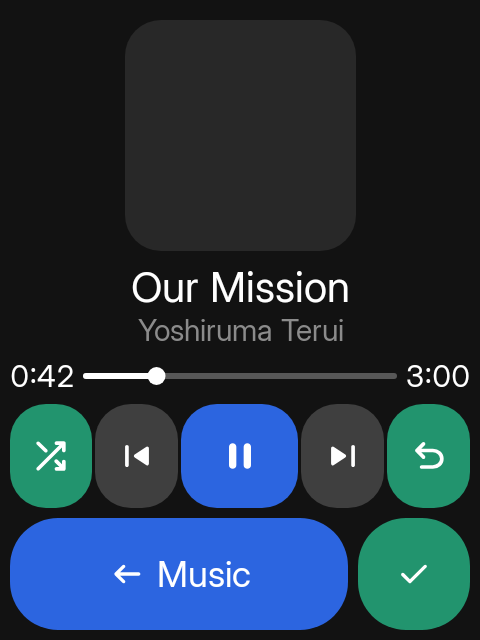
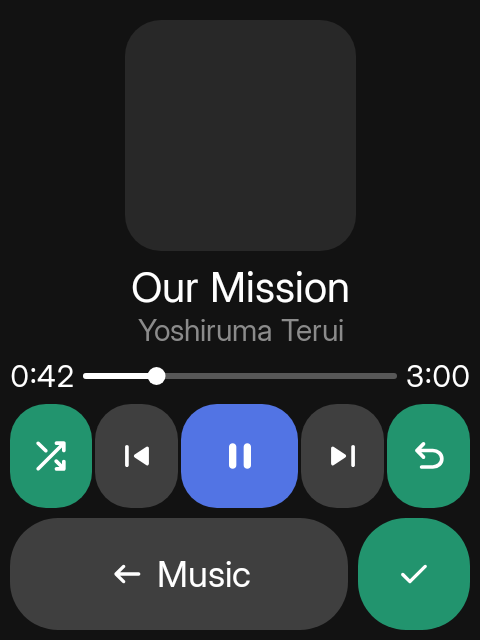
Use the body's tone for play, and give Now Playing's options something to do
primaryA1 is the action bar's tone, not a body one: a tile painted with it is
an action button by definition, which is why the play pill read as a seventh
one. Play now takes ItemColour.Secondary (primaryA2), the tone the calculator
already gives `=`, so the transport is the only accent on the screen.

With play a rung lower the bar's own primary blue still competed for the eye,
so on this screen back drops to ActionTone.Muted — the token's documented role
("back-out, alternatives"), and what Camera already does for Photos next to
the shutter. Every other screen keeps its blue back.

Options had nothing left once shuffle and repeat moved into the transport row.
It now holds Album and Artist, the two buttons that left the bar: less common
actions, and the fallback for anyone who never discovers that the art and the
artist line open them.

Changed region(s): [[0.0, 0.625, 0.75, 1.0]]

diff --git a/app/src/main/java/hrln/interactive/sidekit/apps/music/MusicScreens.kt b/app/src/main/java/hrln/interactive/sidekit/apps/music/MusicScreens.kt
@@ -211,10 +211,12 @@ fun NowPlayingScreen(
     actions: NowPlayingActions
 ) {
     val track = playback.track
-    // The bar keeps only what the body can't hold: leaving the screen, and the save toggle. The
-    // transport below it is the loudest row, which is right: playing is what this screen is for.
+    // Play is the one accent on this screen, so the bar gives its usual primary blue up: back is
+    // what ActionTone.Muted is for ("back-out, alternatives"), and the transport above stays the
+    // loudest row. Only back and Save are permanent; Album and Artist live in Options, because the
+    // art and the artist line already go there and most tracks are played without leaving this screen.
     val bar = buildList {
-        add(SideAction.back("back", "Music", actions.onBack))
+        add(SideAction("back", "Music", SidekitIcon.ArrowLeftAlt, tone = ActionTone.Muted, motion = ActionMotion.Back, onClick = actions.onBack))
         if (track != null) {
             add(
                 SideAction.square(
@@ -228,9 +230,17 @@ fun NowPlayingScreen(
             )
         }
     }
+    val options = if (track == null) {
+        emptyList()
+    } else {
+        listOf(
+            SideAction("album", "Album", SidekitIcon.Album, onClick = actions.onAlbum),
+            SideAction("artist", "Artist", SidekitIcon.Artist, onClick = actions.onArtist)
+        )
+    }
     // No header: the track's own title is this screen's heading, and the height the shared title
     // takes is the difference between a thumbnail and an album cover.
-    SidekitScaffold(title = null, actions = bar) { padding ->
+    SidekitScaffold(title = null, actions = bar, options = options) { padding ->
         if (track == null) {
             Box(Modifier.fillMaxSize().padding(padding), contentAlignment = Alignment.Center) { NothingPlaying() }
         } else {
@@ -431,10 +441,11 @@ private const val SKIP_WEIGHT = 0.85f
 private const val PLAY_WEIGHT = 1.2f
 
 /**
- * Fill of a tile: neutral, [Play] for the screen's main way forward (the action bar's primary
- * blue), and [On] for a mode that is switched on or a track that is saved — the commit green the
- * action bar uses for Save, so colour alone says "this is already applied". Only one tile per
- * screen is blue, so the play button stays the loudest thing in the row.
+ * Fill of a tile. [Play] is the screen's main way forward, but it takes the *body's* top tone
+ * (`ItemColour.Secondary`, as the calculator's `=` does) rather than the action bar's primaryA1:
+ * a tile painted with the bar's tone reads as a seventh action button, which is what this screen
+ * used to be. [On] is a mode switched on or a track saved — the commit green the bar uses for
+ * Save, so colour alone says "this is already applied".
  */
 private enum class TileTone { Neutral, Play, On }
 
@@ -447,7 +458,7 @@ private fun RowScope.IconTile(icon: SidekitIcon, label: String, onClick: () -> U
         Modifier.weight(weight),
         color = when (tone) {
             TileTone.Neutral -> colors.surfaceA3
-            TileTone.Play -> colors.primaryA1
+            TileTone.Play -> colors.primaryA2
             TileTone.On -> colors.successA1
         },
         iconSize = SidekitTheme.spacing.tileIconSize,

diff --git a/app/src/test/java/hrln/interactive/sidekit/apps/music/NowPlayingTest.kt b/app/src/test/java/hrln/interactive/sidekit/apps/music/NowPlayingTest.kt
@@ -10,6 +10,8 @@ import androidx.compose.ui.semantics.SemanticsProperties
 import androidx.compose.ui.test.*
 import androidx.compose.ui.test.junit4.v2.createComposeRule
 import androidx.test.ext.junit.runners.AndroidJUnit4
+import hrln.interactive.sidekit.design.action.ChromeState
+import hrln.interactive.sidekit.design.action.LocalChrome
 import hrln.interactive.sidekit.ui.SidekitPreviewFrame
 import org.junit.Assert.assertEquals
 import org.junit.Rule
@@ -41,10 +43,27 @@ class NowPlayingTest {
 
     @Test fun theBarHoldsOnlyBackAndSave() {
         compose.setContent { SidekitPreviewFrame { NowPlayingScreen(playing, false, NowPlayingActions()) } }
-        // Album and Artist moved onto the art and the artist line, so their buttons are gone.
+        // Album and Artist left the bar for the art, the artist line and Options.
         compose.onNodeWithContentDescription("Album").assertDoesNotExist()
         compose.onNodeWithContentDescription("Artist").assertDoesNotExist()
         compose.onNodeWithContentDescription("Music").assertIsDisplayed()
+    }
+
+    @Test fun optionsHoldTheWayToTheAlbumAndTheArtist() {
+        lateinit var chrome: ChromeState
+        val calls = mutableListOf<String>()
+        compose.setContent {
+            SidekitPreviewFrame {
+                chrome = LocalChrome.current!!
+                NowPlayingScreen(playing, false, NowPlayingActions(onAlbum = { calls += "album" }, onArtist = { calls += "artist" }))
+            }
+        }
+        compose.runOnUiThread { chrome.toggleOptions() }
+        compose.onNodeWithContentDescription("Album").assertIsDisplayed().performClick()
+        assertEquals(listOf("album"), calls)
+        compose.runOnUiThread { chrome.toggleOptions() }
+        compose.onNodeWithContentDescription("Artist").assertIsDisplayed().performClick()
+        assertEquals(listOf("album", "artist"), calls)
     }
 
     @Test fun seekIsASliderThatCanBeScrubbed() {

diff --git a/app/src/test/java/hrln/interactive/sidekit/apps/music/MusicScreenshotTest.kt b/app/src/test/java/hrln/interactive/sidekit/apps/music/MusicScreenshotTest.kt
@@ -5,6 +5,8 @@ import androidx.compose.ui.test.junit4.createComposeRule
 import androidx.compose.ui.test.onRoot
 import androidx.test.ext.junit.runners.AndroidJUnit4
 import com.github.takahirom.roborazzi.captureRoboImage
+import hrln.interactive.sidekit.design.action.ChromeState
+import hrln.interactive.sidekit.design.action.LocalChrome
 import hrln.interactive.sidekit.ui.SidekitPreviewFrame
 import org.junit.Rule
 import org.junit.Test
@@ -34,6 +36,18 @@ class MusicScreenshotTest {
 
     @Test fun nowPlayingSavedAndShuffling() = shoot("music_now_playing_saved") {
         NowPlayingScreen(playing.copy(queue = playing.queue.withShuffle(true).withRepeat(RepeatMode.All)), saved = true, actions = NowPlayingActions())
+    }
+
+    @Test fun nowPlayingOptions() {
+        lateinit var chrome: ChromeState
+        compose.setContent {
+            SidekitPreviewFrame {
+                chrome = LocalChrome.current!!
+                NowPlayingScreen(playing, saved = false, actions = NowPlayingActions())
+            }
+        }
+        compose.runOnUiThread { chrome.toggleOptions() }
+        compose.onRoot().captureRoboImage("screenshots/music_now_playing_options.png")
     }
 
     @Test fun nowPlayingEmpty() = shoot("music_now_playing_empty") {
